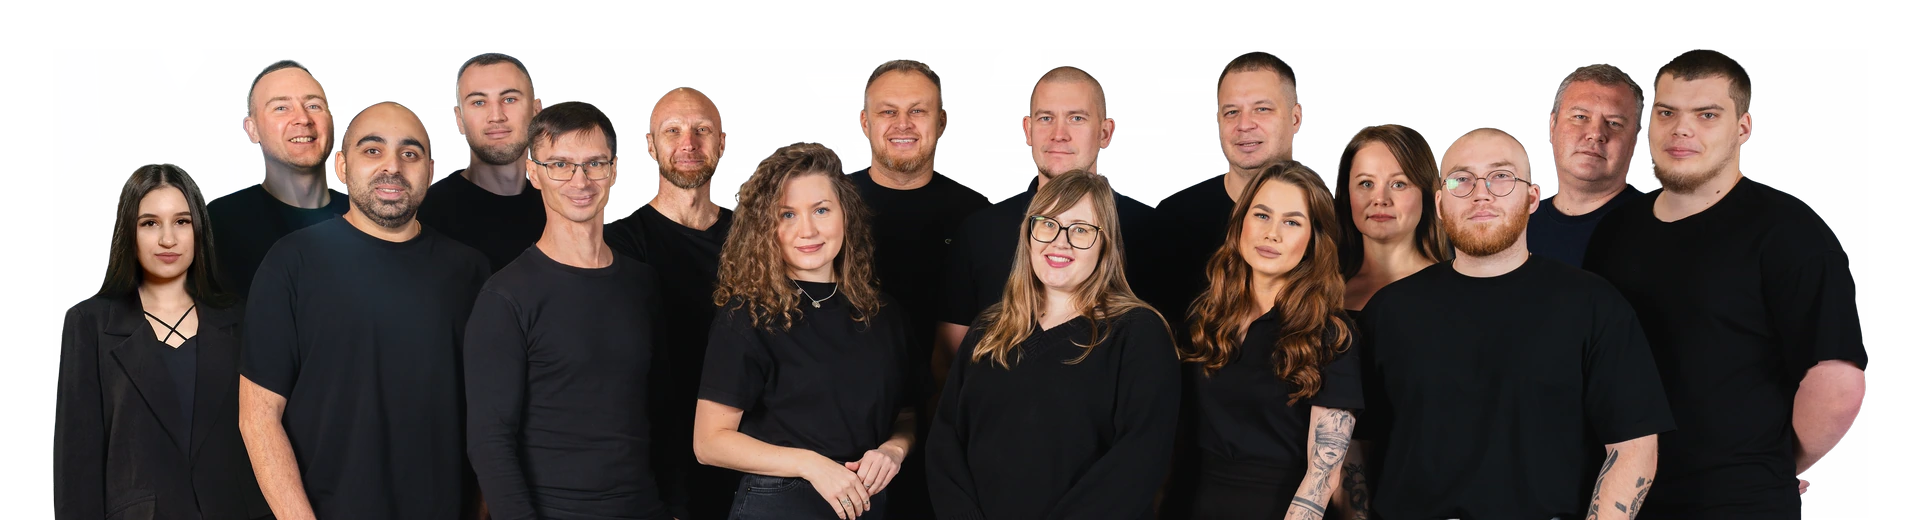
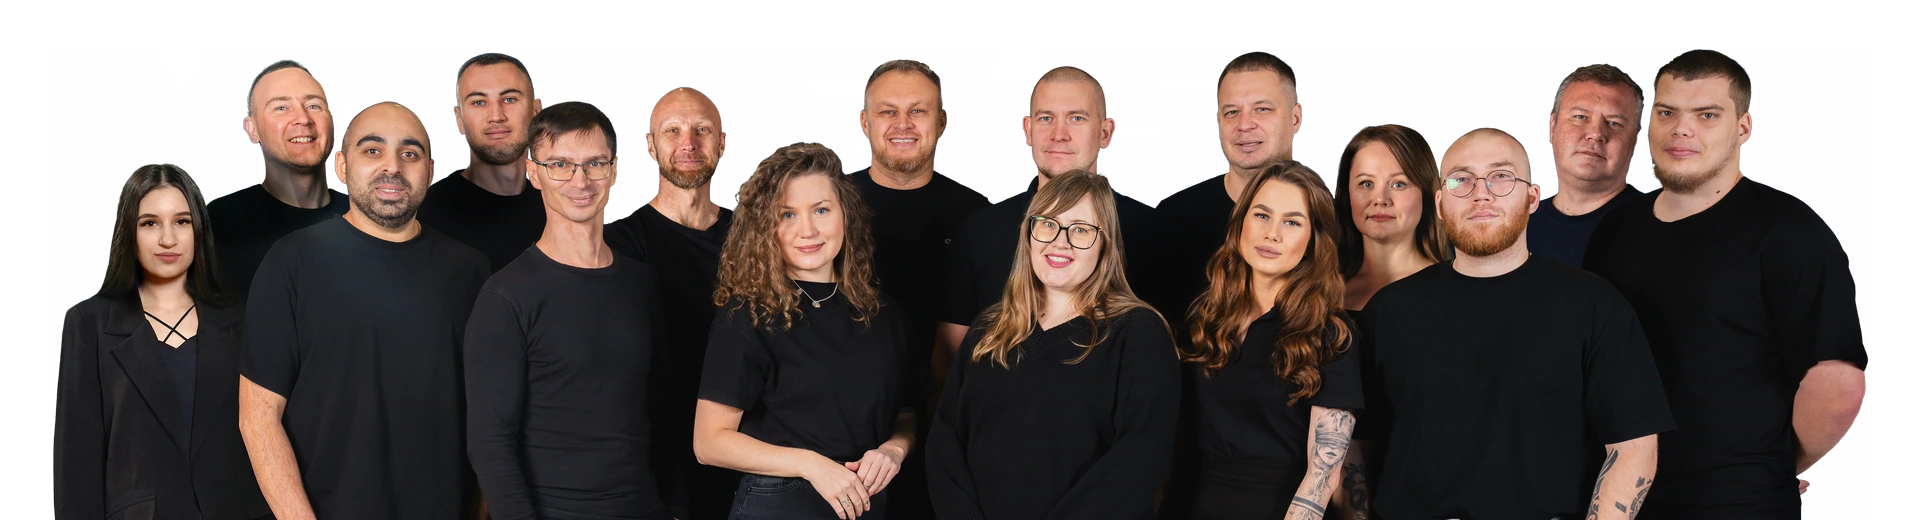
Use refined team cutout on the homepage

diff --git a/index.html b/index.html
@@ -584,7 +584,7 @@
     <div class="kicker"><span class="n">9</span><span class="l">Команда</span></div>
     <div class="section-head"><h2 class="t-2">Делаем так, чтобы глаз радовался</h2></div>
   </div>
-  <div class="team__photo"><img src="/img/team/komanda-zavoda-nzmo-2026-1920.webp" srcset="/img/team/komanda-zavoda-nzmo-2026-960.webp 960w, /img/team/komanda-zavoda-nzmo-2026-1920.webp 1920w, /img/team/komanda-zavoda-nzmo-2026-2880.webp 2880w" sizes="100vw" width="1920" height="520" alt="Команда завода НЗМО, 2026 год" loading="lazy" decoding="async"></div>
+  <div class="team__photo"><img src="/img/team/komanda-zavoda-nzmo-2026-1920.webp?v=ce70b453" srcset="/img/team/komanda-zavoda-nzmo-2026-960.webp?v=7c71c546 960w, /img/team/komanda-zavoda-nzmo-2026-1920.webp?v=ce70b453 1920w, /img/team/komanda-zavoda-nzmo-2026-2880.webp?v=61a8d149 2880w" sizes="100vw" width="1920" height="520" alt="Команда завода НЗМО, 2026 год" loading="lazy" decoding="async"></div>
 </section>
 
 </main>
